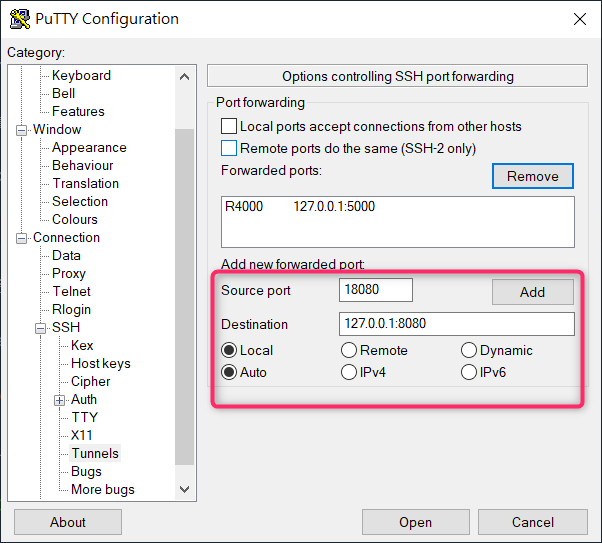
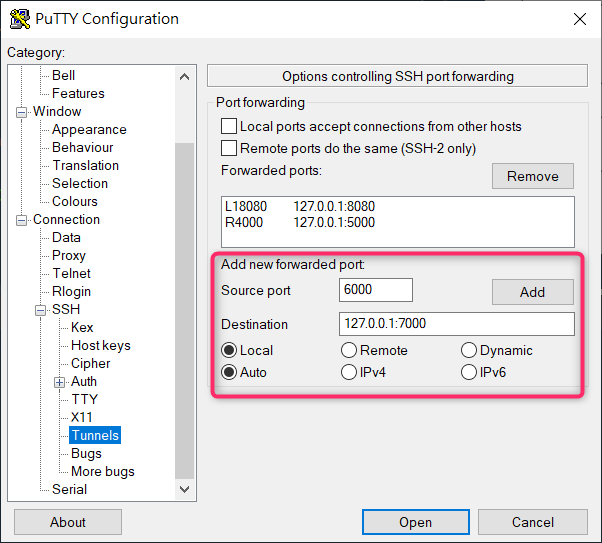
add 筆電5000對雲端4000.png

diff --git a/2022-02-25/server.js b/2022-02-25/server.js
@@ -1,13 +1,13 @@
 const http = require('http'); // 1 - 載入 Node.js 原生模組 http
-const port = 4000;
+const port = process.argv[2] || 5000; // 服務的 port
 const server = http.createServer(function (req, res) {   // 2 - 建立server
 
     // 在此處理 客戶端向 http server 發送過來的 req。
     res.writeHead(200, { 'Content-Type': 'text/html; charset=utf-8' });
+    console.log('access')
     res.end(`成功訪問 Express Server - http://${req.headers && req.headers.host}`);
 });
 
-server.listen(port, () => {
+server.listen(port, '0.0.0.0', () => {
     console.log(`Node.js web success open at http://localhost:${server.address().port}`);
-}); //3 - 進入此網站的監聽 port, 就是 localhost:xxxx 的 xxxx
-
+}); // 3 - 進入此網站的監聽 port, 就是 localhost:xxxx 的 xxxx

diff --git a/2022-02-25/ssh-port-forwarding.md b/2022-02-25/ssh-port-forwarding.md
@@ -9,29 +9,15 @@
 - 在 Digital Ocean 上開啟一台 Droplet 機器 ( 已安裝 Node.exe )
 - Putty.exe 
 - 你的筆電 ( 已安裝 Node.exe )
-- server.js 
+- [server.js](https://github.com/andrew781026/dev-notes/blob/master/2022-02-25/server.js) 
 
-```javascript
-// server.js 
-const http = require('http'); // 1 - 載入 Node.js 原生模組 http
-const port = 4000;
-const server = http.createServer(function (req, res) {   // 2 - 建立server
-
-    // 在此處理 客戶端向 http server 發送過來的 req。
-    res.writeHead(200, { 'Content-Type': 'text/html; charset=utf-8' });
-    res.end(`成功訪問 Express Server - http://${req.headers && req.headers.host}`);
-});
-
-server.listen(port, () => {
-    console.log(`Node.js web success open at http://localhost:${server.address().port}`);
-}); //3 - 進入此網站的監聽 port, 就是 localhost:xxxx 的 xxxx
-```
+> 特別觀念
 
 其實 ssh tunnel 的 SSH Port Forwarding 是有方向性的
 
-之前在做測試的時候 , 一直把它當成網路設定 , 以為只要建立通道 , 就可以做連線
+之前在設定時 , 我誤以為它是雙向的 , 因此常常發生設定後 , 連不上任何東西的尷尬情況
 
-不過它其實是有 Remote 跟 Local 兩種設定 , 下面來用圖解說明吧 ! 
+有方向性 , 因此有 Remote 跟 Local 兩種設定 , 那要如何設定呢 ? 下面來用圖解說明吧 ! 
 
 ![圖一](圖一.png)
 
@@ -39,13 +25,34 @@ server.listen(port, () => {
 
 利用 SSH 建立一個通道 (Tunnel) 我們稱為 SSH tunnel
 
-如果使用 Local 設定 Port Forwarding
+### 將筆電端的 6000 port 轉到 雲端機器的 7000 port (使用 Local 設定 Port Forwarding)
+
+> 筆電 :6000 -> 雲端機器 Private IP :7000 ( 在筆電用瀏覽器開啟 local:6000 時可以看到 "雲端機器 :7000" 的頁面 )
 
 ![圖二](圖二.png)
 
-筆電 :18080 -> 雲端機器 Private IP :8080 ( 在筆電用瀏覽器開啟 local:18080 時可以看到 "雲端機器 :8080" 的頁面 )
+在 "雲端機器" 用 node 在 7000 port 上啟動 server.js
+
+```shell
+~$ node server.js 7000 
+```
+
+```shell
+~$ sudo ufw enable
+~$ sudo ufw allow 6000
+~$ sudo ufw allow 7000
+```
+
+由於 ubuntu 預設會將外部訪問 port 做關閉 , 因此需要將其打開才能做 port forwarding
+
+> Local 的設定會將筆電的 6000 Port 導向 雲端機器的 7000 Port , 不過反過來沒有 X
+
+在雲端機器上啟用 7000 port 的 server.js , 在筆電上 6000 port 會取到資料
+
+
 
 > Local 的設定會將筆電的 18080 Port 導向 雲端機器的 8080 Port , 不過反過來沒有 X
+
 
 使用 Remote 設定 Port Forwarding
 
@@ -55,9 +62,13 @@ server.listen(port, () => {
 
 雲端機器 :4000 -> 筆電 Private IP :5000 ( 用瀏覽器訪問 雲端機器_hostname:4000 時可以看到 "筆電 :5000" 的頁面 )
 
-> Local 的設定會將筆電的 18080 Port 導向 雲端機器的 8080 Port , 不過反過來沒有 X
+當我們用 `curl http://localhost:4000` 測試的時候 , 可以訪問到筆電中 port 5000 的 server 
 
-不過反過來 , 就不能通過了
+![筆電5000對雲端4000](筆電5000對雲端4000.png)
+
+------
+
+
 
 
 ## 參考資料
